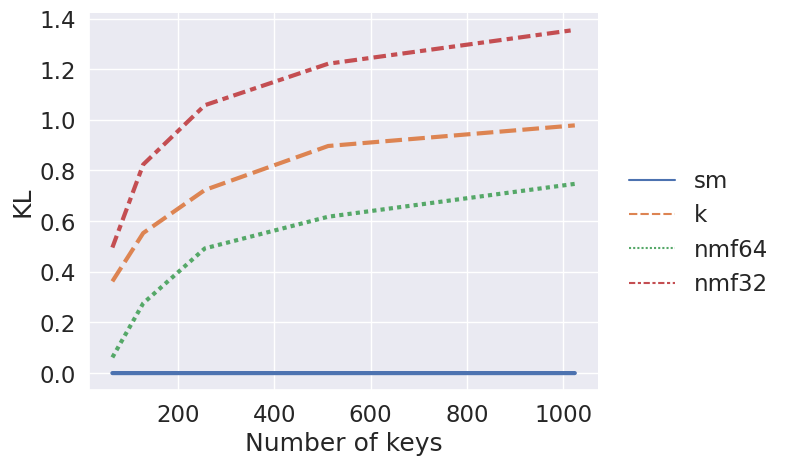
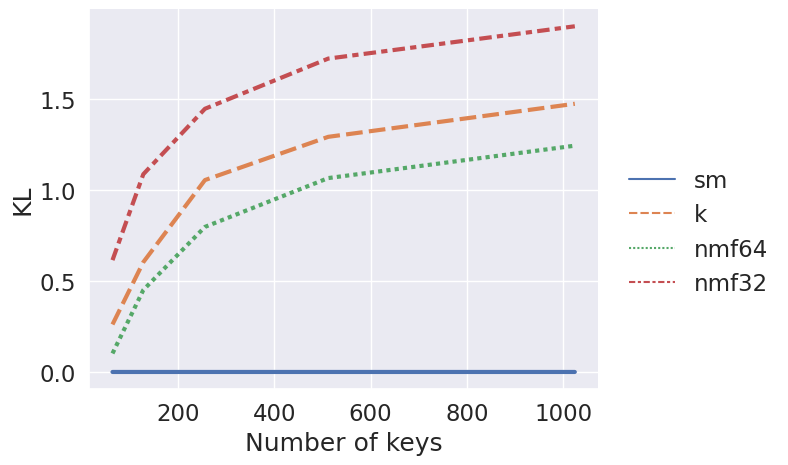
.

diff --git a/cat_tests/test_hyps.py b/cat_tests/test_hyps.py
@@ -598,7 +598,7 @@ g.savefig("cat_tests/kl_plots/rank.png")
 print("Higher number of classes (keys) is harder to fit")
 def true_dist_sm(num_classes):
     true_model = Cat(
-        128,
+        256,
         num_classes, 128, 1,
         temp=1, xavier_init=False, sm=True)
     true_model.to(device)
